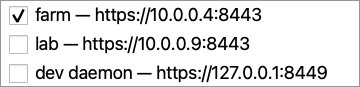
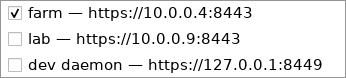
GUI docs: render the chapter's screenshots on Linux (#1172)
scripts/gui_screens.py pinned an empty fontconfig for the
capture, and on a Linux host the offscreen Qt platform found no
face for the chrome under it: every glyph rendered through Qt's
box engine until the first terminal registered the wheel's
JetBrains Mono, after which the chrome fell back to that face.
The committed PNGs came from macOS, where Qt reads CoreText.

The run now writes a fontconfig with one directory,
GUI_SCREENS_FONT_DIR, which devenv.nix exports as the DejaVu
package the devenv lock pins, with the generic families aliased
to DejaVu Sans: the one face with every marker the GUI paints
(✗, ↻, ·). The chrome's size is the window's own anchor
(open_window's 15 logical pixels through the screen's dpi)
instead of a bare scale of the offscreen platform's 9pt default.
The setup is written in the script's docstring and in
docs/development.md; a Linux host needs nothing beyond the shell,
and the script refuses without the variable.

The ten captures re-render from the pre-#1160 GUI on Linux with
DejaVu Sans, so this diff is the font and platform drift alone:
the Clone button (#1068) now shows on the list, and the chrome
opens at the window's size. The state colors land in their own
commit.

Changed region(s): [[0.0, 0.7179, 0.9538, 0.9744], [0.0, 0.0513, 0.7514, 0.3077], [0.0, 0.3846, 0.6936, 0.641]]

diff --git a/scripts/gui_screens.py b/scripts/gui_screens.py
@@ -10,9 +10,32 @@ no desktop window: the widgets paint offscreen and
 ``QWidget.grab()`` reads the pixels.
 
 Run from the devenv shell (the project's Python carries
-PySide6):
+PySide6, and the shell exports the font directory below):
 
     devenv --quiet shell -- python scripts/gui_screens.py
+
+The pixels do not vary with the host's fonts (#1172). On Linux
+Qt resolves every family through fontconfig, so the run pins
+``FONTCONFIG_FILE`` to a file it writes: one directory,
+``GUI_SCREENS_FONT_DIR``, with the generic families aliased to
+DejaVu Sans. DejaVu Sans is the chrome's face: the one face
+with every marker the GUI paints (``✗``, ``↻``, ``·``) in a
+single file, where Noto Sans and Liberation Sans lack some and
+fall back to whatever the host holds. ``devenv.nix`` exports
+the directory as the DejaVu package the devenv lock pins; a
+Linux host needs no system-level step, the font is in the shell,
+and without the variable the script refuses — an empty pin hands
+the chrome to Qt's box engine, every glyph a hollow rectangle,
+the shape the first Linux render came out in. The terminal's
+face is the wheel's own bundled JetBrains Mono, registered as
+an application font, so it reads no fontconfig. On macOS Qt
+resolves through CoreText and reads none either; the pin leaves
+that platform's system font alone. The chrome's size is the
+window's own anchor, the terminal face's 15 logical pixels
+through the screen's dpi (#939, #1056): the capture shows the
+window at the size the operator sees on the platform, where a
+bare scale of the offscreen platform's own default (9pt) left
+the chrome a fifth smaller than the window it documents.
 
 The fixed clock pins every relative label (``2d ago``, the
 TTL countdown) to one moment, so re-running the script
@@ -32,7 +55,17 @@ from pathlib import Path
 ROOT = Path(__file__).resolve().parent.parent
 OUT = ROOT / "docs" / "screens"
 
-#: The pinned moment every relative label reads (#1008's
+#: The directory the pinned fontconfig lists (#1172): devenv.nix
+#: exports the DejaVu package's font directory the devenv lock
+#: pins, and the chrome resolves to CHROME_FAMILY from it.
+FONT_DIR_ENV = "GUI_SCREENS_FONT_DIR"
+
+#: The chrome's face under the pin (#1172): one file with every
+#: marker the GUI paints — ✗, ↻, · — where the other Linux
+#: defaults (Noto Sans, Liberation Sans) lack some.
+CHROME_FAMILY = "DejaVu Sans"
+
+#: The moment every relative label reads (#1008's
 #: captures): an aware local datetime, the shape the shared
 #: leaf's own clock returns — a naive pin would read as local
 #: time against the daemon's UTC stamps and skew every label
@@ -40,6 +73,40 @@ OUT = ROOT / "docs" / "screens"
 #: as UTC around this moment, the daemon's own convention.
 PINNED = datetime(2026, 1, 4, 12, 0, 0).astimezone()
 PINNED_UTC = PINNED.astimezone(UTC)
+
+
+def pinned_fontconfig() -> str:
+    """Write the fontconfig the run pins (#1172) and return its
+    path: one directory, ``GUI_SCREENS_FONT_DIR``, with the two
+    generic families Qt asks the chrome with aliased to
+    CHROME_FAMILY. Without the alias fontconfig hands the generic
+    to the first face in its sort — DejaVu Math TeX Gyre over
+    DejaVu Sans with the DejaVu directory listed. An unset or
+    missing directory stops the run with one line: the capture
+    belongs in the devenv shell, and a directory fontconfig cannot
+    find renders the same boxes as no font at all."""
+    font_dir = os.environ.get(FONT_DIR_ENV)
+    if not font_dir:
+        sys.exit(
+            f"gui_screens: {FONT_DIR_ENV} is unset — run from the "
+            "devenv shell (docs/development.md)"
+        )
+    if not Path(font_dir).is_dir():
+        sys.exit(f"gui_screens: {FONT_DIR_ENV} names no directory: {font_dir}")
+    fonts = tempfile.NamedTemporaryFile(suffix=".conf", delete=False, mode="w")
+    fonts.write(
+        "<?xml version='1.0'?>\n"
+        "<!DOCTYPE fontconfig SYSTEM 'fonts.dtd'>\n"
+        "<fontconfig>\n"
+        f"  <dir>{font_dir}</dir>\n"
+        "  <alias><family>sans-serif</family><prefer>"
+        f"<family>{CHROME_FAMILY}</family></prefer></alias>\n"
+        "  <alias><family>Sans Serif</family><prefer>"
+        f"<family>{CHROME_FAMILY}</family></prefer></alias>\n"
+        "</fontconfig>\n"
+    )
+    fonts.close()
+    return fonts.name
 
 
 def utc_stamp(offset: timedelta) -> str:
@@ -229,10 +296,7 @@ def preset_rows():
 
 def main() -> int:
     os.environ["QT_QPA_PLATFORM"] = "offscreen"
-    fonts = tempfile.NamedTemporaryFile(suffix=".conf", delete=False, mode="w")
-    fonts.write("<fontconfig/>\n")
-    fonts.close()
-    os.environ["FONTCONFIG_FILE"] = fonts.name
+    os.environ["FONTCONFIG_FILE"] = pinned_fontconfig()
     os.environ.setdefault("QT_STYLE_OVERRIDE", "Fusion")
     try:
         capture()
@@ -252,7 +316,7 @@ def main() -> int:
                     hub.shutdown()
                 except Exception as exc:
                     print(f"msks-screens: {exc}", file=sys.stderr)
-        os.unlink(fonts.name)
+        os.unlink(os.environ["FONTCONFIG_FILE"])
     return 0
 
 
@@ -268,9 +332,15 @@ def capture() -> None:
     from msks.client.gui import secretrows as secretrows_mod
     from msks.client.gui import workspace as workspace_mod
     from msks.client.gui import workspaces as workspaces_mod
-    from msks.client.gui.app import FONT_SCALE, FUSION_STYLE
+    from msks.client.gui.app import (
+        FONT_SCALE,
+        FUSION_STYLE,
+        chrome_pt,
+        screen_dpi,
+    )
     from msks.client.gui.images import tab as images_mod
     from msks.client.gui.secrets import tab as secrets_mod
+    from msks.client.gui.terminal.fonts import DEFAULT_PT
     from PySide6 import QtWidgets
 
     ages_mod.clock_now = lambda: PINNED
@@ -280,8 +350,15 @@ def capture() -> None:
         ["msks-screens"]
     )
     app.setStyle(FUSION_STYLE)
+    # The window's own chrome anchor (open_window's write, #939,
+    # #1056): the terminal face's 15 logical pixels converted
+    # through the screen's dpi, so the capture shows the chrome
+    # at the size the operator's window opens at — the
+    # offscreen platform's own default (9pt) is no desktop
+    # session's font, and a bare scale of it left the chrome a
+    # fifth smaller than the window it documents.
     font = app.font()
-    font.setPointSizeF(font.pointSizeF() * FONT_SCALE)
+    font.setPointSizeF(chrome_pt(DEFAULT_PT * FONT_SCALE, screen_dpi(app)))
     app.setFont(font)
 
     list_bridge = StubBridge()

diff --git a/docs/development.md b/docs/development.md
@@ -529,6 +529,29 @@ msks-docs              # serves http://127.0.0.1:8923/ live
 `RENDER_DOCS_SCREENS=1 pytest -q
 src/msks/tests/test_render_docs_screens.py`.
 
+The GUI chapter's screenshots, `docs/screens/gui-*.png`, come
+from `scripts/gui_screens.py`. Run it from the devenv shell on a
+Linux host (#1172):
+
+```bash
+devenv --quiet shell -- python scripts/gui_screens.py
+```
+
+The script writes its own fontconfig file and points
+`FONTCONFIG_FILE` at it. The file lists one directory,
+`GUI_SCREENS_FONT_DIR`, which `devenv.nix` exports as the DejaVu
+package the devenv lock pins. The window's chrome resolves to
+DejaVu Sans from that directory. The terminal keeps the wheel's
+bundled JetBrains Mono. The host's own fonts take no part, and a
+Linux host needs no font package or system setting beyond the
+shell. The script stops with one line when the variable is unset.
+A second run on the same host reproduces the committed pixels.
+The events tab's clock stamps and the terminal child's output
+may differ between runs. Qt reads CoreText on macOS and ignores
+the pin there. The screenshots then come out in that platform's
+system font. The committed captures come from a Linux host.
+Re-render them from one too.
+
 ### The workspace LLM proxy
 
 Each workspace's tap carries its own proxy service when the daemon
